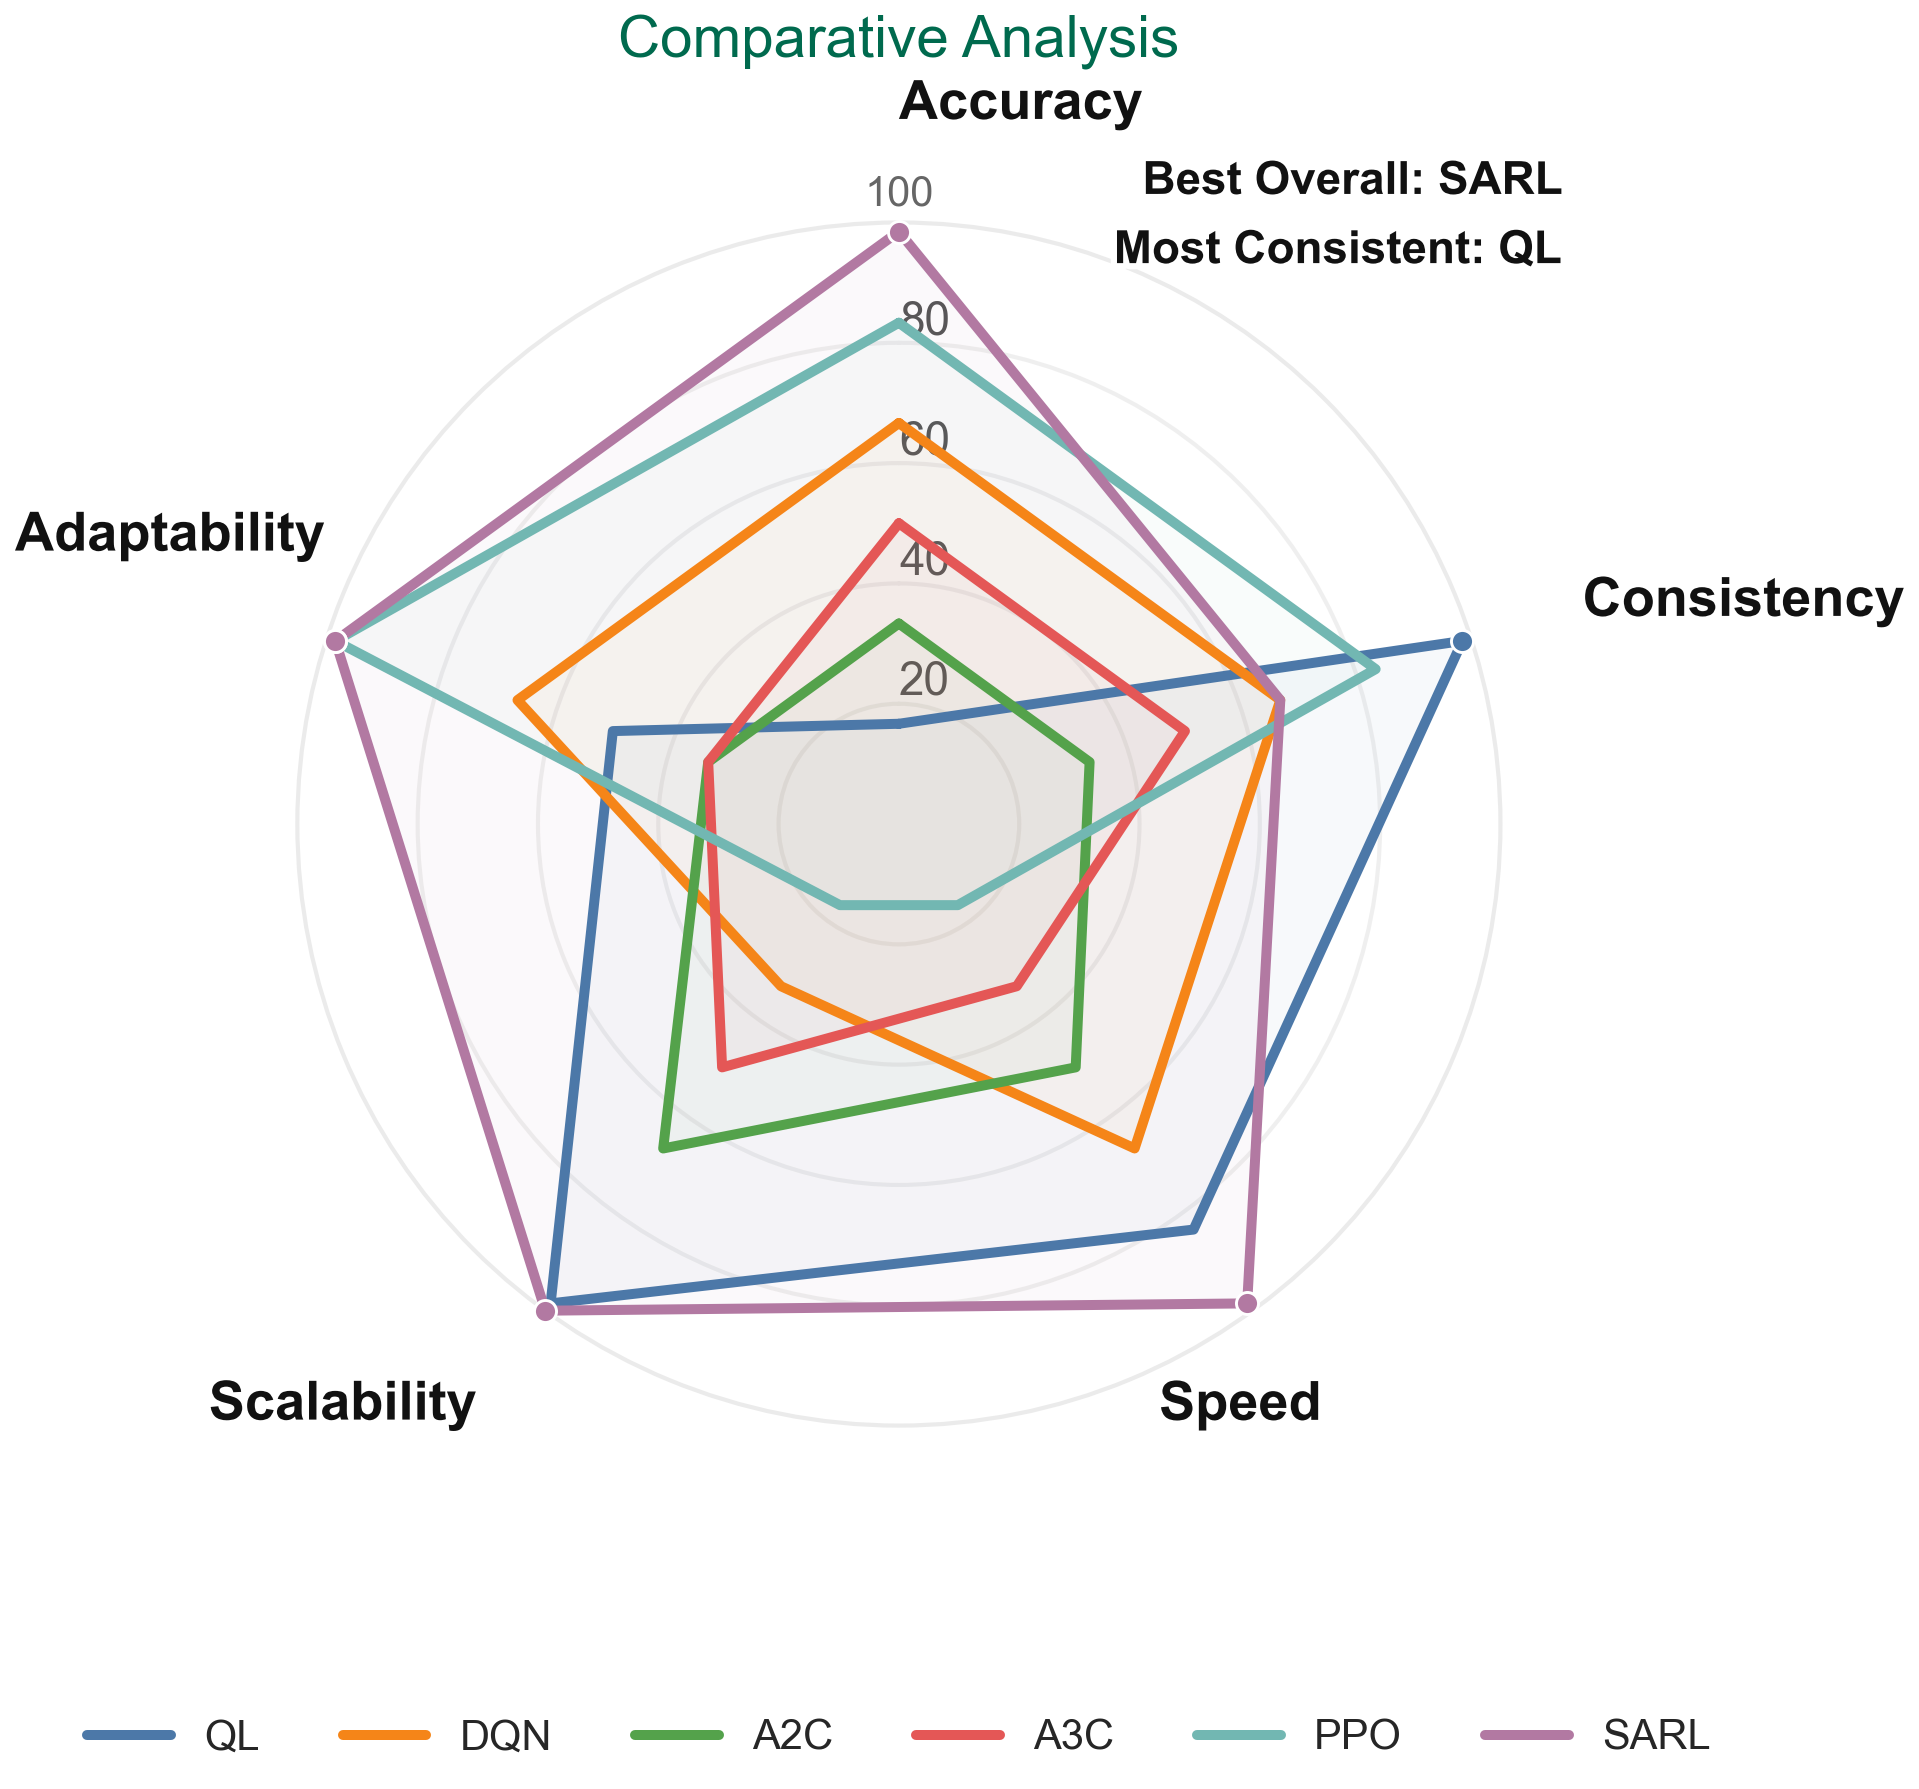
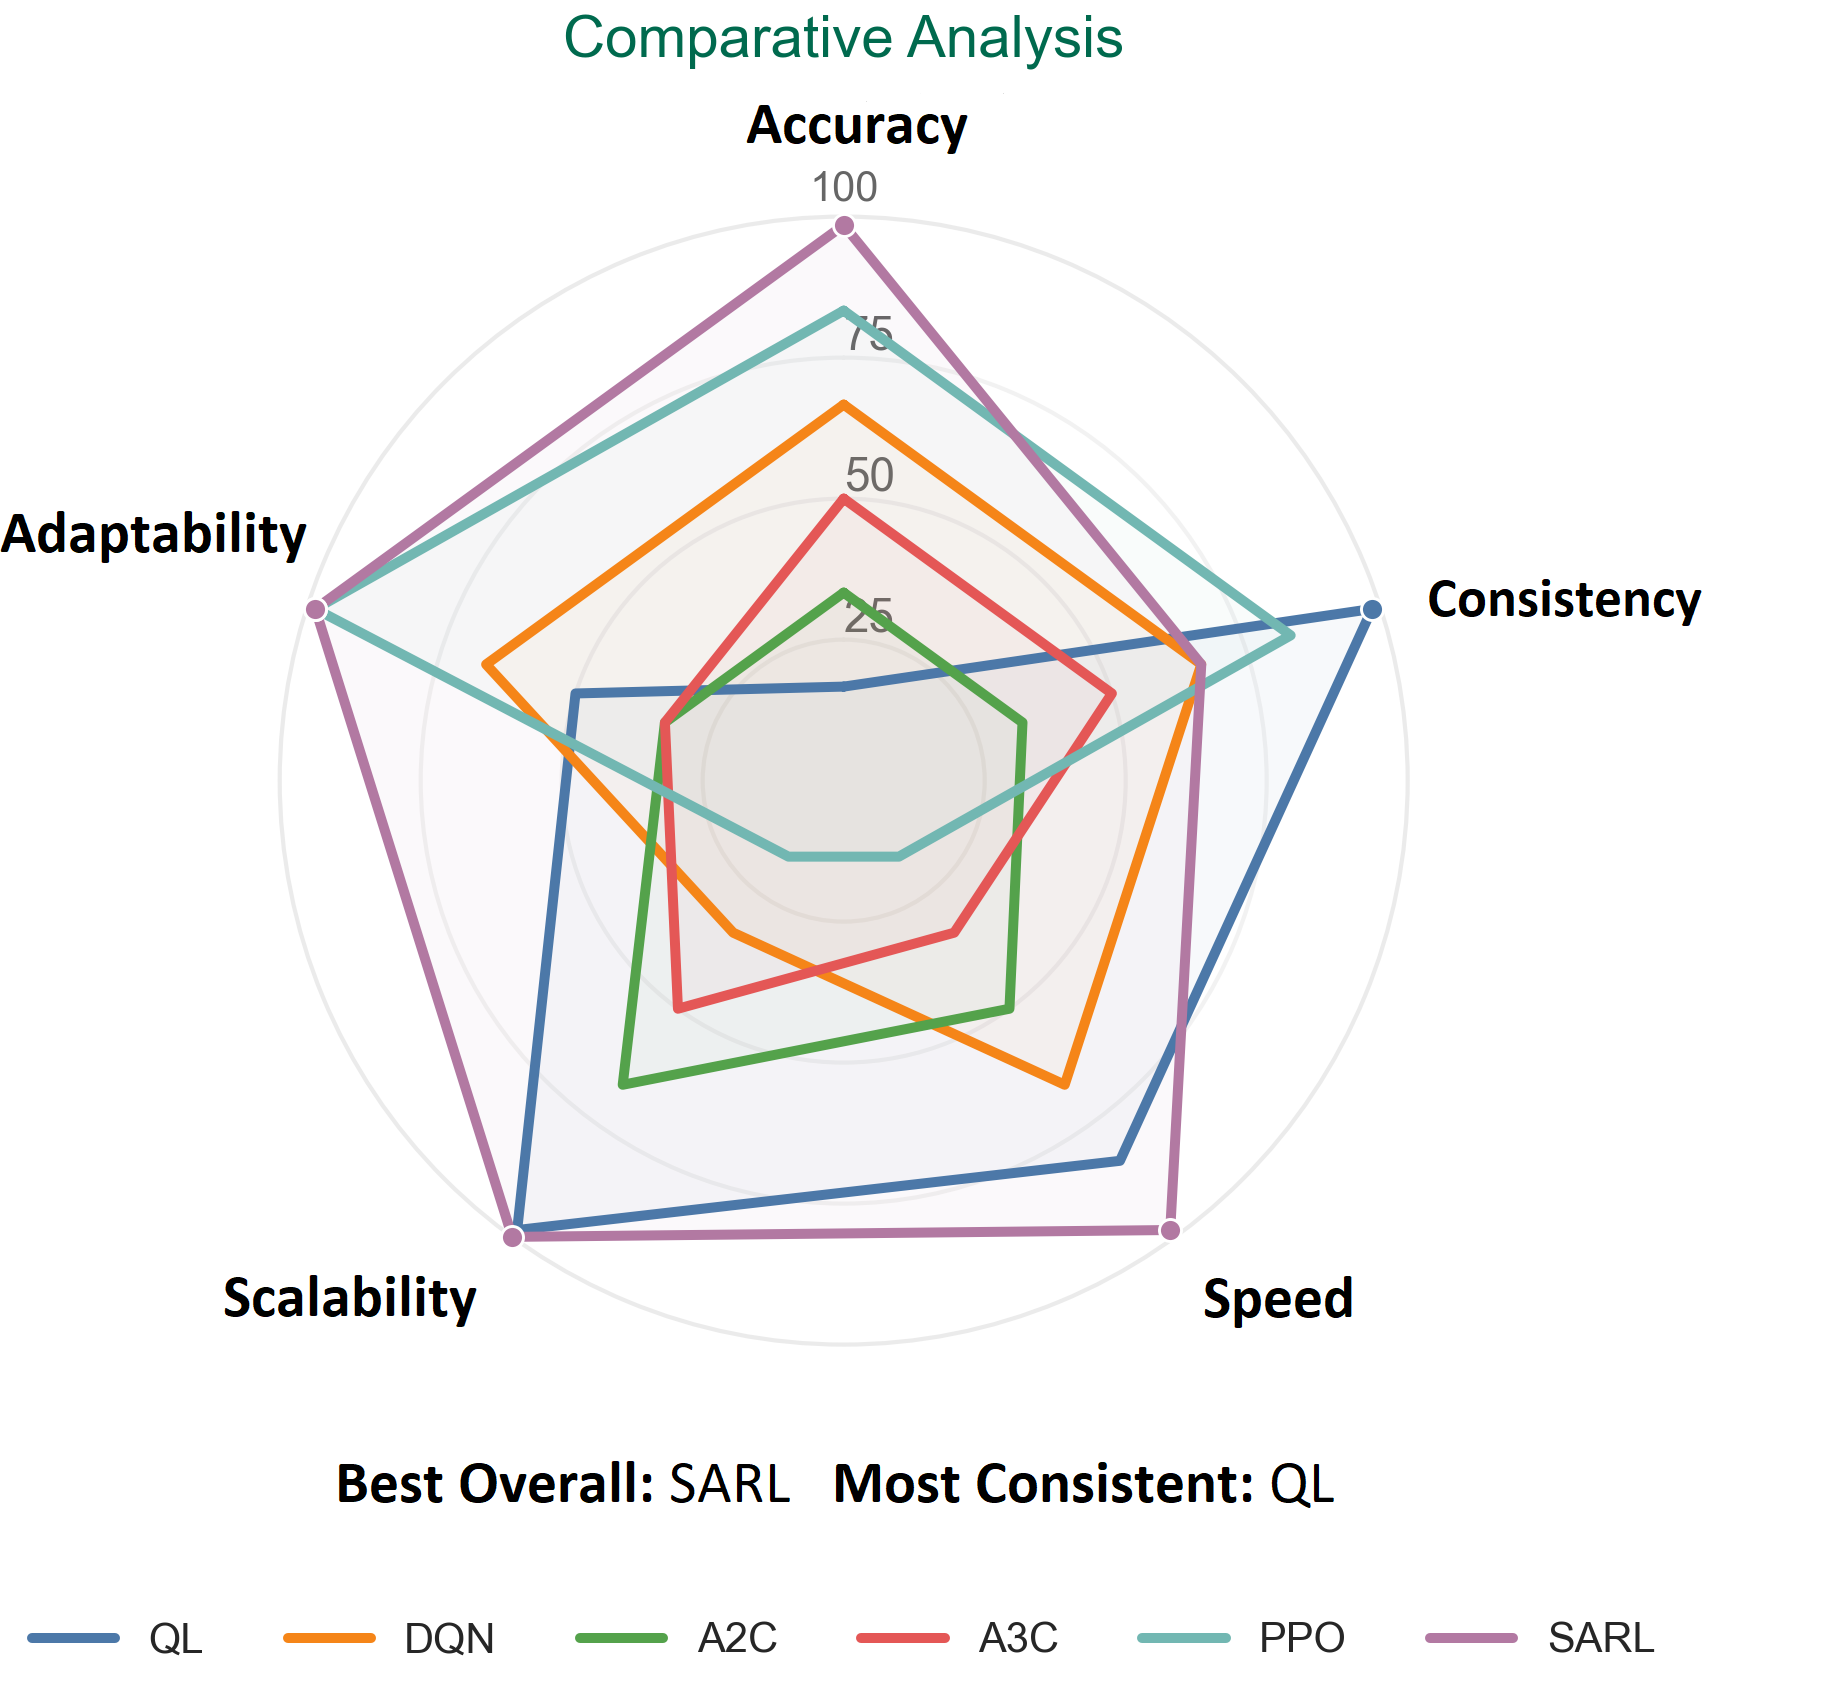
Added changes

diff --git a/curriculum_sequencing_rl/plot_poster.py b/curriculum_sequencing_rl/plot_poster.py
@@ -827,41 +827,7 @@ def plot_radar_axes(df_all: pd.DataFrame, models: List[str], outdir: Path, radar
                 hide()
             except Exception:
                 pass
-    # Add summary annotations inside the chart (top-right)
-    # For the poster, use explicit labels as requested
-    try:
-        line1 = "Best Overall: SARL"
-        line2 = "Most Consistent: QL"
-        for yy, txt in [(0.98, line1), (0.93, line2)]:
-            t = ax.text(0.98, yy, txt, transform=ax.transAxes, ha="right", va="top",
-                        fontsize=11, fontweight="bold", color="#111111", zorder=20)
-            try:
-                t.set_path_effects([
-                    path_effects.Stroke(linewidth=3.0, foreground="white"),
-                    path_effects.Normal(),
-                ])
-            except Exception:
-                pass
-    except Exception:
-        pass
-    else:
-        ax.set_rlabel_position(0)
-        ax.set_ylim(0, 115)
-        ax.set_yticks([20, 40, 60, 80, 100])
-        ax.set_yticklabels(["20", "40", "60", "80", ""], color="#555555")
-        # Force ticks to only these positions (including 100)
-        ax.yaxis.set_major_locator(mtick.FixedLocator([20, 40, 60, 80, 100]))
-        # Only draw circular gridlines; disable angular spokes
-        ax.grid(True, axis="y", alpha=0.3)
-        ax.xaxis.grid(False)
-        # Hide the polar frame completely to avoid any circle beyond 100
-        for hide in (lambda: ax.spines["polar"].set_visible(False),
-                     lambda: ax.set_frame_on(False),
-                     lambda: ax.patch.set_visible(False)):
-            try:
-                hide()
-            except Exception:
-                pass
+    # Top-right summary annotations removed per request; keep highlight radial styling above.
 
     # Style the 100 circular gridline to be as light as other gridlines
     try:
@@ -987,8 +953,25 @@ def plot_radar_axes(df_all: pd.DataFrame, models: List[str], outdir: Path, radar
 
     # Legend placement (applies to both styles)
     if len(model_labels) > 3:
+        # Add centered annotation above the legend at the bottom
+        try:
+            bottom_note = "Best Overall: SARL   Most Consistent: QL"
+            ax.text(
+                0.5,
+                -0.08,
+                bottom_note,
+                transform=ax.transAxes,
+                ha="center",
+                va="top",
+                fontsize=11,
+                fontweight="normal",
+                color="#111111",
+            )
+        except Exception:
+            pass
         ax.legend(loc="upper center", bbox_to_anchor=(0.5, -0.12), ncol=min(len(model_labels), 6), frameon=False)
-        fig.tight_layout(rect=[0, 0.12, 1, 1])
+        # Leave a bit more space at the bottom for both the annotation and legend
+        fig.tight_layout(rect=[0, 0.16, 1, 1])
     else:
         ax.legend(loc="upper left", bbox_to_anchor=(1.05, 1.05), frameon=False)
         fig.tight_layout(rect=[0, 0, 0.85, 1])
